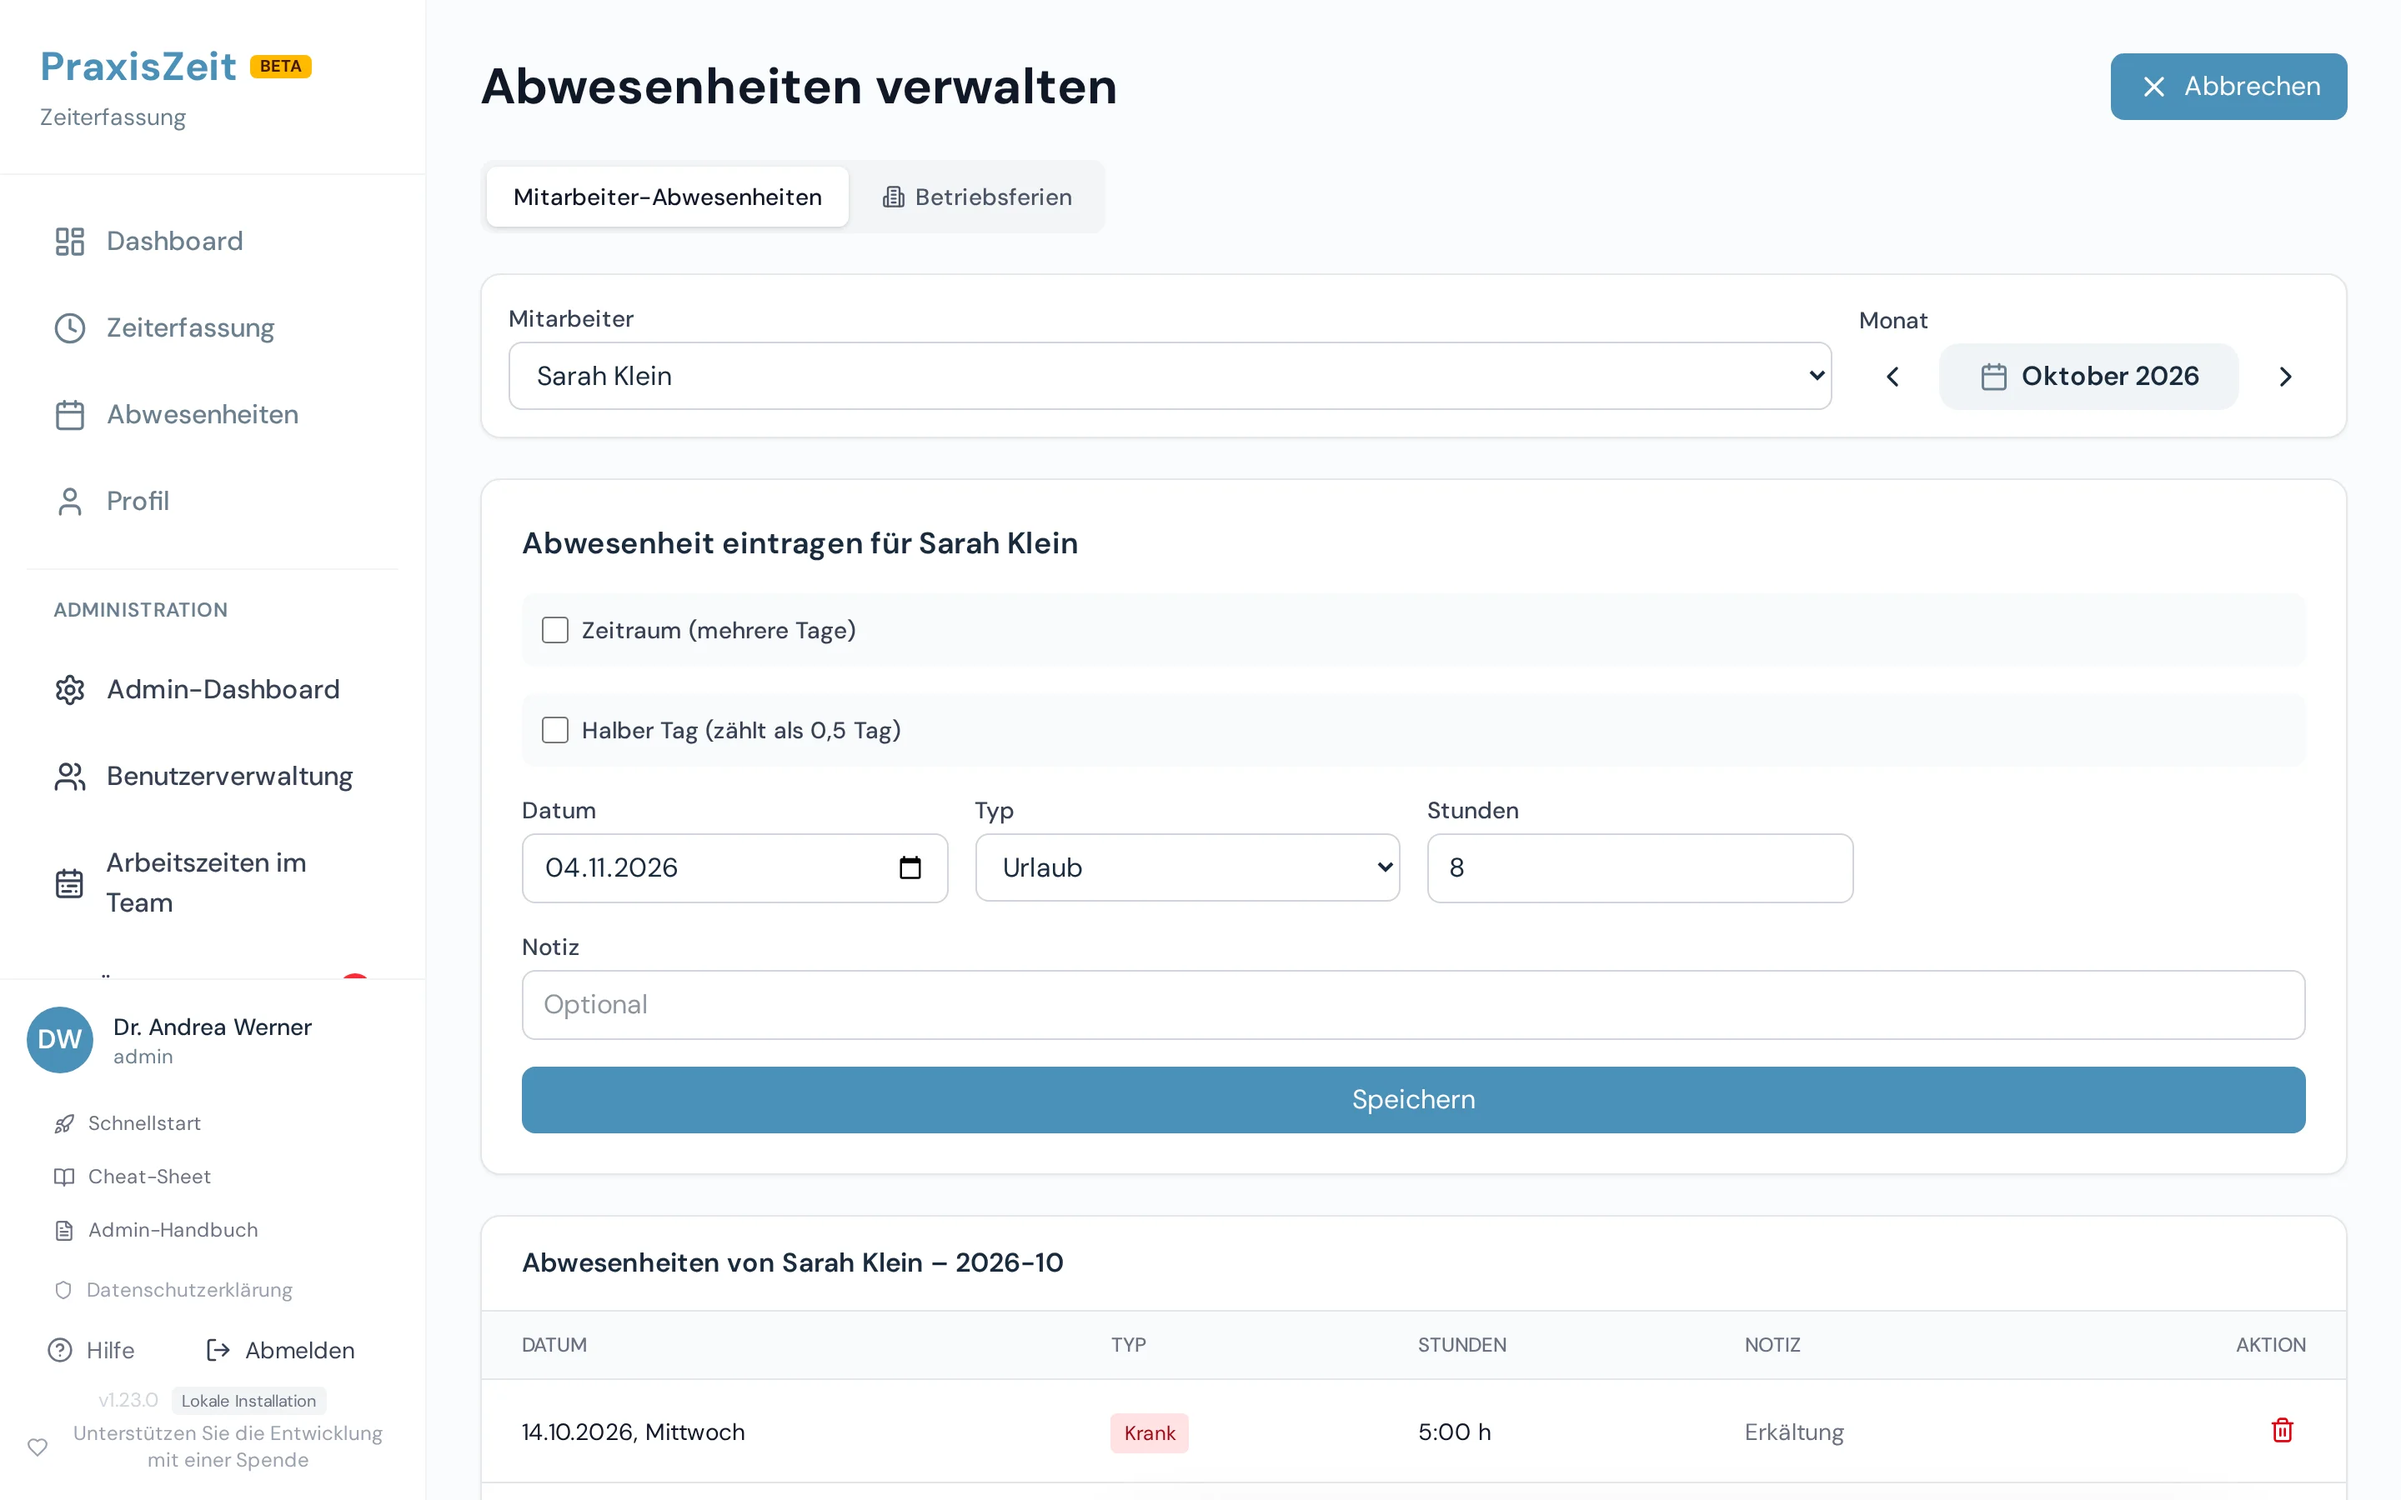
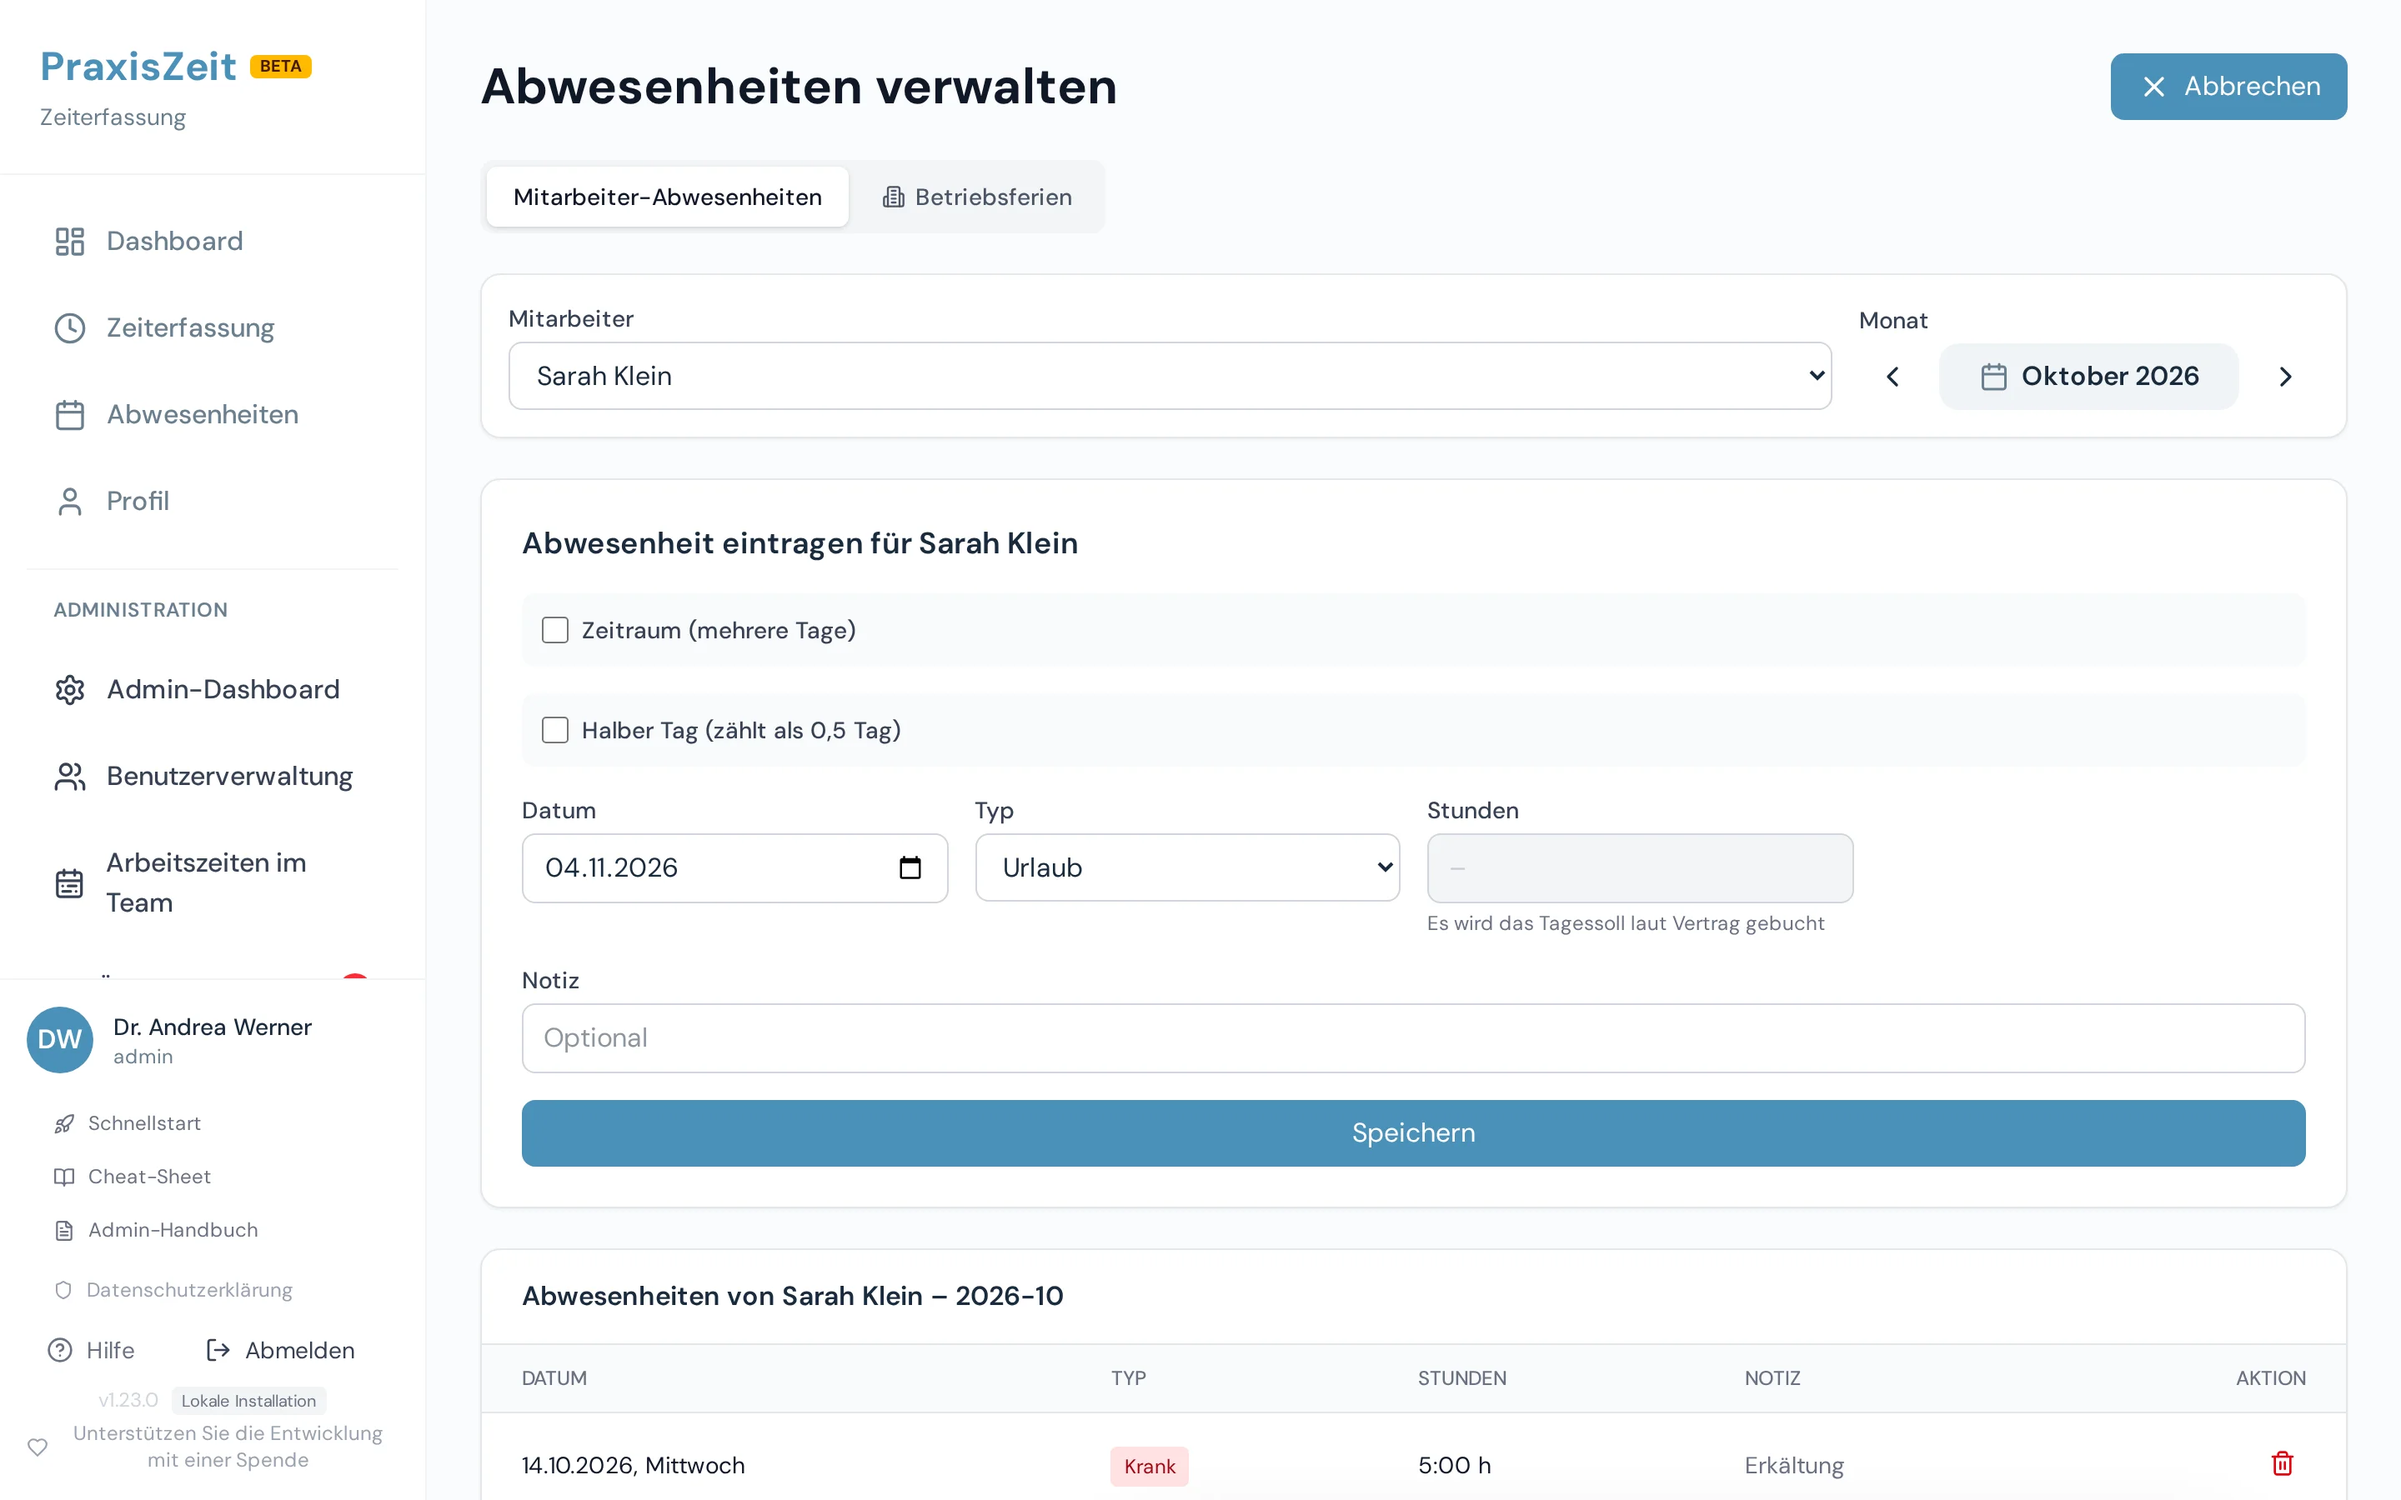
docs(handbuch): Abwesenheit eintragen nach Formular-Korrektur
Step text and alt text describe the greyed-out Stunden field with the
day-target hint; shot re-captured against the fixed UI.

diff --git a/frontend/src/handbuch/content/praxisleitung.ts b/frontend/src/handbuch/content/praxisleitung.ts
@@ -394,7 +394,7 @@ const shots: ShotDef[] = [
       { n: 4, id: 'typ', locator: { css: 'main form select' }, badge: 'top' },
       { n: 5, id: 'speichern', locator: { css: "main form button[type='submit']" }, badge: 'left' },
     ],
-    alt: 'Seite „Abwesenheiten verwalten“: Mitarbeiterin Sarah Klein gewählt, darunter das Formular „Abwesenheit eintragen“ mit Datum, Typ Urlaub, Stunden und Speichern',
+    alt: 'Seite „Abwesenheiten verwalten“: Mitarbeiterin Sarah Klein gewählt, darunter das Formular „Abwesenheit eintragen“ mit Datum, Typ Urlaub, ausgegrautem Stundenfeld mit Hinweis zum Tagessoll und Speichern',
   },
   {
     id: 'pl-betriebsferien',
@@ -1183,7 +1183,7 @@ export const praxisleitung: Handbook = {
             { n: 2, text: 'Mehrere Tage? Setzen Sie den Haken bei [[Zeitraum (mehrere Tage)]]. Für einen einzelnen Tag gibt es [[Halber Tag (zählt als 0,5 Tag)]] – nicht bei Krank und Überstundenausgleich.' },
             { n: 3, text: 'Wählen Sie das **Datum** – beim Zeitraum **Von** und **Bis**. Anders als die Mitarbeitenden tragen Sie auch vergangene Tage direkt ein.' },
             { n: 4, text: '**Typ:** Urlaub, Krank, Fortbildung (außer Haus), Überstundenausgleich, Bezahlte Freistellung (kein Urlaubsabzug), Sonstiges – oder unter „Eigene Gründe“ ein Grund Ihrer Praxis.' },
-            { text: '**Stunden:** Gebucht wird immer das Tagessoll des Tages; nur beim Überstundenausgleich zählt der eingetragene Wert – er geht vom Überstundenkonto ab.' },
+            { text: '**Stunden:** Das Feld bleibt ausgegraut, solange es nichts einzutragen gibt – gebucht wird immer das Tagessoll des Tages laut Vertrag („Es wird das Tagessoll laut Vertrag gebucht“). Nur beim Überstundenausgleich ist das Feld frei: Der eingetragene Wert geht vom Überstundenkonto ab.' },
             { n: 5, text: 'Klicken Sie auf [[Speichern]].' },
           ],
         },
